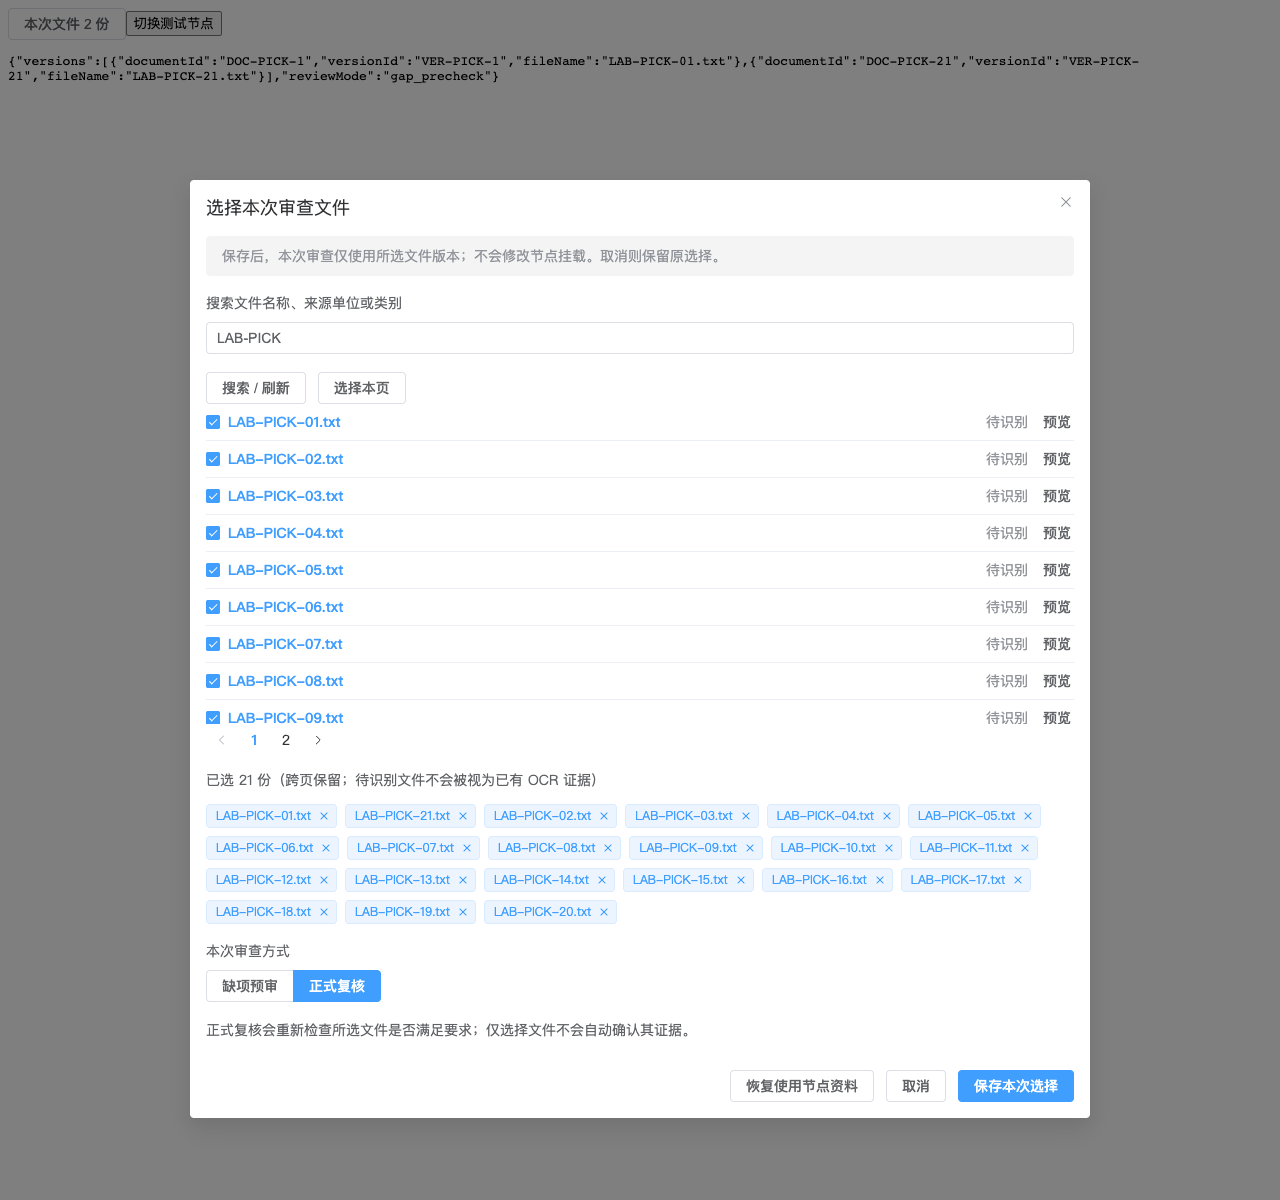
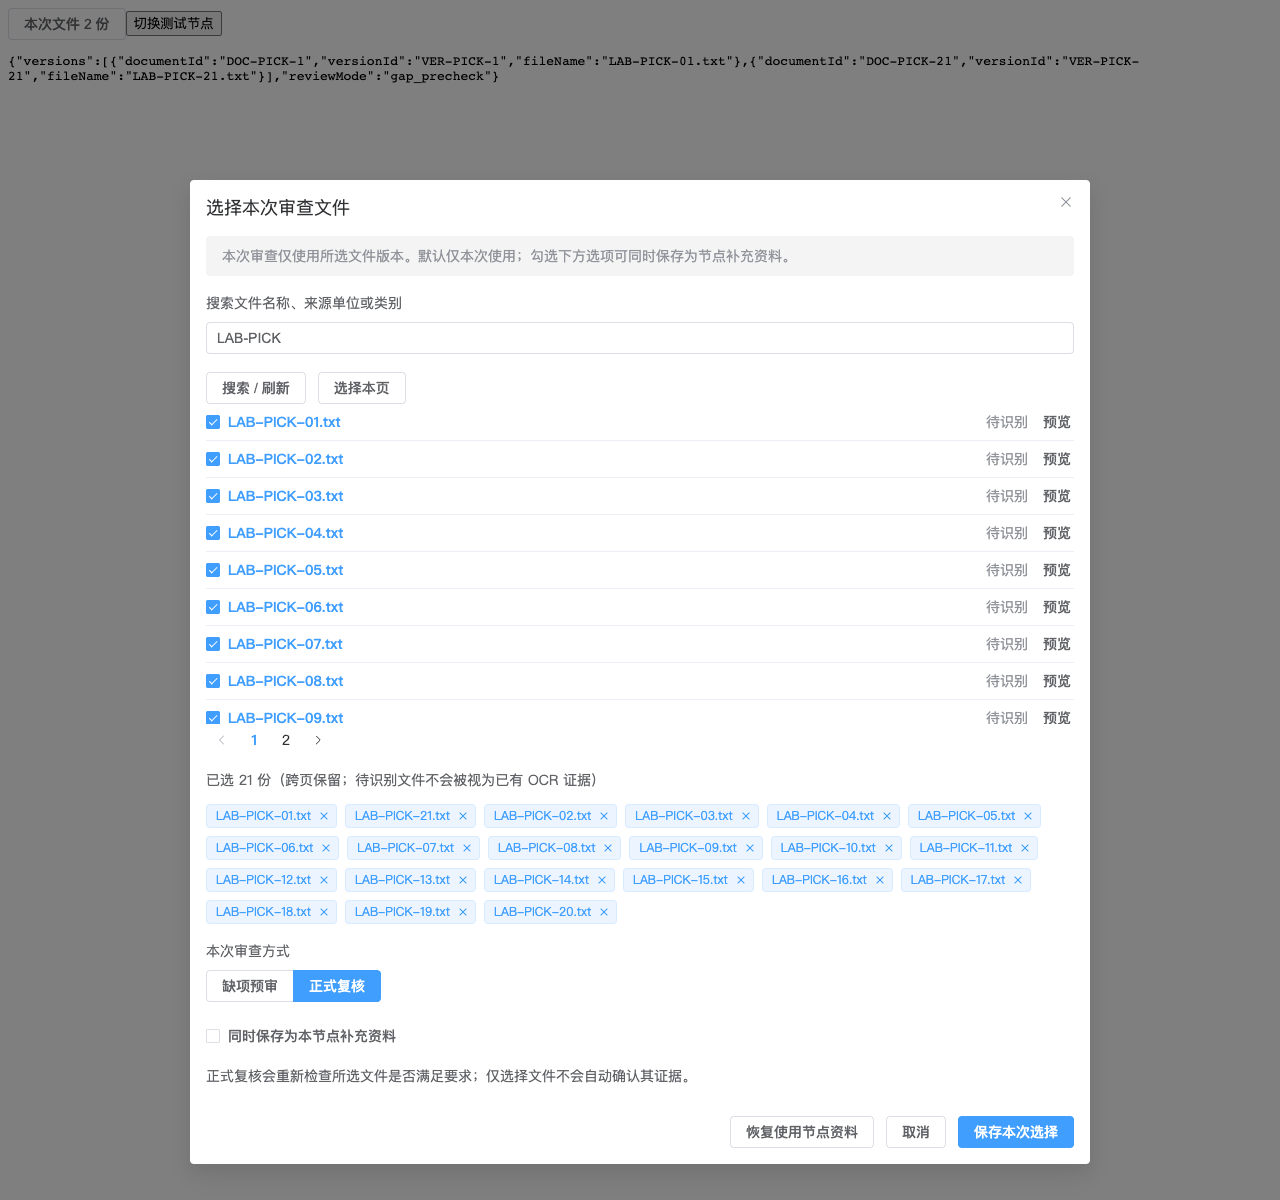
feat(ui): save selected review documents as supplemental node bindings

Changed region(s): [[0.125, 0.8325, 0.875, 0.9867], [0.1875, 0.185, 0.5938, 0.2158]]

diff --git a/frontend/src/views/AIReviewB/ReviewDocumentPicker.vue b/frontend/src/views/AIReviewB/ReviewDocumentPicker.vue
@@ -14,7 +14,7 @@ import {
   ElRadioGroup,
   ElTag
 } from 'element-plus'
-import { getDocumentDetailApi } from '@/api/aicheck'
+import { bindInspectionDocumentsApi, getDocumentDetailApi } from '@/api/aicheck'
 import {
   listReviewDocuments,
   type ReviewDocument,
@@ -24,13 +24,17 @@ import {
 const props = defineProps<{
   projectId: string
   nodeId: number
+  projectEtag?: string
   disabled?: boolean
   selection: ReviewDocumentSelection | null
 }>()
-const emit = defineEmits<{ change: [selection: ReviewDocumentSelection | null] }>()
+const emit = defineEmits<{ change: [selection: ReviewDocumentSelection | null]; bound: [] }>()
 const enabled = import.meta.env.VITE_AICHECK_WORKSTATIONS_ENABLED === 'true'
 const visible = ref(false)
 const loading = ref(false)
+const saving = ref(false)
+const persistBindings = ref(false)
+const bindingAttempts = new Map<string, string>()
 const error = ref('')
 const keyword = ref('')
 const page = ref(1)
@@ -67,6 +71,8 @@ const load = async () => {
   }
 }
 const open = () => {
+  if (saving.value) return
+  persistBindings.value = false
   chosen.value = props.selection?.versions.map((item) => ({ ...item })) || []
   mode.value = props.selection?.reviewMode || 'gap_precheck'
   keyword.value = ''
@@ -75,6 +81,7 @@ const open = () => {
   void load()
 }
 const toggle = (item: ReviewDocument, checked: boolean) => {
+  if (saving.value) return
   if (checked && selectable(item) && !chosenIds.value.has(item.currentVersionId)) {
     if (chosen.value.length >= 500) {
       error.value = '本次最多选择 500 份文件。'
@@ -92,12 +99,47 @@ const search = () => {
   page.value = 1
   void load()
 }
-const save = () => {
-  if (!chosen.value.length || props.disabled) return
-  emit('change', { versions: chosen.value.map((item) => ({ ...item })), reviewMode: mode.value })
+const save = async () => {
+  if (!chosen.value.length || props.disabled || saving.value) return
+  const context = generation
+  const projectId = props.projectId
+  const nodeId = props.nodeId
+  const selection = { versions: chosen.value.map((item) => ({ ...item })), reviewMode: mode.value }
+  if (persistBindings.value) {
+    const bindings = selection.versions
+      .map((item) => ({
+        documentId: item.documentId,
+        documentVersionId: item.versionId,
+        usage: '监检资料' as const
+      }))
+      .sort((a, b) => a.documentVersionId.localeCompare(b.documentVersionId))
+    const fingerprint = JSON.stringify({ projectId, nodeId, bindings })
+    const idempotencyKey = bindingAttempts.get(fingerprint) || `review-files-${crypto.randomUUID()}`
+    bindingAttempts.set(fingerprint, idempotencyKey)
+    saving.value = true
+    error.value = ''
+    try {
+      await bindInspectionDocumentsApi(projectId, nodeId, bindings, {
+        etag: props.projectEtag,
+        idempotencyKey
+      })
+      if (context !== generation) return
+      emit('bound')
+    } catch {
+      if (context === generation)
+        error.value =
+          '节点挂载未确认成功，已选文件仍保留。可重试；若工程已更新，请刷新工作台后再保存。'
+      return
+    } finally {
+      saving.value = false
+    }
+  }
+  if (context !== generation) return
+  emit('change', selection)
   visible.value = false
 }
 const useNodeDocuments = () => {
+  if (saving.value || props.disabled) return
   emit('change', null)
   visible.value = false
 }
@@ -145,7 +187,7 @@ watch(visible, (value) => {
 </script>
 
 <template>
-  <ElButton v-if="enabled" :disabled="disabled || !projectId || !nodeId" @click="open">
+  <ElButton v-if="enabled" :disabled="saving || disabled || !projectId || !nodeId" @click="open">
     {{ selection ? `本次文件 ${selection.versions.length} 份` : '选择本次文件' }}
   </ElButton>
   <ElDialog
@@ -153,11 +195,13 @@ watch(visible, (value) => {
     title="选择本次审查文件"
     width="min(900px, 94vw)"
     :close-on-click-modal="false"
+    :close-on-press-escape="!saving"
+    :show-close="!saving"
   >
     <ElAlert
       type="info"
       :closable="false"
-      title="保存后，本次审查仅使用所选文件版本；不会修改节点挂载。取消则保留原选择。"
+      title="本次审查仅使用所选文件版本。默认仅本次使用；勾选下方选项可同时保存为节点补充资料。"
     />
     <ElAlert v-if="error" type="error" :closable="false" :title="error" />
     <ElForm label-position="top" class="document-picker-search" @submit.prevent="search">
@@ -178,7 +222,7 @@ watch(visible, (value) => {
       >
         <ElCheckbox
           :model-value="chosenIds.has(item.currentVersionId)"
-          :disabled="!selectable(item)"
+          :disabled="saving || !selectable(item)"
           @change="(value) => toggle(item, Boolean(value))"
         >
           {{ item.fileName }}
@@ -187,7 +231,9 @@ watch(visible, (value) => {
           >{{ item.currentOcrStatus || '待识别'
           }}{{ item.bodyUploaded === false ? ' · 文件未上传完整' : '' }}</span
         >
-        <ElButton link :disabled="!selectable(item)" @click="showPreview(item)">预览</ElButton>
+        <ElButton link :disabled="saving || !selectable(item)" @click="showPreview(item)"
+          >预览</ElButton
+        >
       </div>
     </div>
     <ElPagination
@@ -202,25 +248,33 @@ watch(visible, (value) => {
       <ElTag
         v-for="item in chosen"
         :key="item.versionId"
-        closable
+        :closable="!saving"
         @close="chosen = chosen.filter((row) => row.versionId !== item.versionId)"
         >{{ item.fileName }}</ElTag
       >
     </div>
     <ElForm label-position="top">
       <ElFormItem label="本次审查方式">
-        <ElRadioGroup v-model="mode">
+        <ElRadioGroup v-model="mode" :disabled="saving">
           <ElRadioButton value="gap_precheck">缺项预审</ElRadioButton>
           <ElRadioButton value="formal">正式复核</ElRadioButton>
         </ElRadioGroup>
       </ElFormItem>
     </ElForm>
+    <ElCheckbox v-model="persistBindings" :disabled="saving"> 同时保存为本节点补充资料 </ElCheckbox>
+    <p v-if="persistBindings"
+      >按所选版本新增挂载，不替换原挂载或自动匹配必传要求；未提交的版本仍需提交。旧版本不会自动成为正式审查证据。</p
+    >
     <p>正式复核会重新检查所选文件是否满足要求；仅选择文件不会自动确认其证据。</p>
     <template #footer>
-      <ElButton :disabled="disabled" @click="useNodeDocuments">恢复使用节点资料</ElButton>
-      <ElButton @click="visible = false">取消</ElButton>
-      <ElButton type="primary" :disabled="!chosen.length || disabled" @click="save"
-        >保存本次选择</ElButton
+      <ElButton :disabled="disabled || saving" @click="useNodeDocuments">恢复使用节点资料</ElButton>
+      <ElButton :disabled="saving" @click="visible = false">取消</ElButton>
+      <ElButton
+        type="primary"
+        :loading="saving"
+        :disabled="!chosen.length || disabled || saving"
+        @click="save"
+        >{{ persistBindings ? '保存选择并挂载' : '保存本次选择' }}</ElButton
       >
     </template>
   </ElDialog>

diff --git a/frontend/src/views/AIReviewB/ConversationalReviewWorkbenchB.vue b/frontend/src/views/AIReviewB/ConversationalReviewWorkbenchB.vue
@@ -1789,8 +1789,10 @@ onBeforeUnmount(() => {
             :project-id="activeProjectId"
             :node-id="activeNodeId"
             :selection="reviewDocumentSelection"
+            :project-etag="workspace?.project.etag"
             :disabled="actionLoading || workspace?.permissions.canManageEvidence !== true"
             @change="reviewDocumentSelection = $event"
+            @bound="refreshLiveState"
           />
           <div v-if="!props.embedded" class="run-meta">
             <ProjectRuleEditor

diff --git a/docs/优化计划-焊接节点.md b/docs/优化计划-焊接节点.md
@@ -902,3 +902,13 @@ W1 之外已顺手完成：P9 R2 的 opinionSource 字段；F1 的 AI_FEEDBACK_R
 - 舊版掛載仍不自動建立目前版本的正式證據連結；保存補充文件不等於滿足必傳要求。資料池提交狀態仍沿用既有資料級模型，本批未新增逐版本提交歷史。
 - 人工掛載／組織權限／巨石回歸 147 passed；既有掛載及 R69 API 回歸 8 passed；Ruff 289 / 289、diff check 通過。含舊／新版與已／未提交交叉案例、版本號及不產生錯版證據檢查；未重跑完整後端。
 - 這是 W2 永久掛載介面的後端前置修復；保存介面、重複掛載處理、頁碼及歷史版本選取仍待完成。無生產部署或歷史資料改寫。
+
+
+### 2026-09-09 文件選取保存補充掛載介面
+
+- Lab 文件選取預設仍僅本次使用；明確勾選「同時保存為本節點補充資料」才呼叫既有監檢掛載 API，傳所選版本、工程 etag 與冪等編號。沿用監檢資料 usage，不自動指定 requirementId、替換原掛載或提交未提交版本。
+- 保存成功才更新本次選取並要求工作台刷新；失敗保留選取與提示。保存中停用取消、關閉及選取修改；主畫面切換工程／節點後忽略舊保存回應，不把選取帶入新節點。已送出的原節點寫入不因切換而撤銷。
+- 同一元件生命週期內，相同工程／節點／版本集合沿用操作編號；真實 API 模擬保存後遺失回應，再重試只新增一筆掛載。尚未解決重新載入頁面後另一次操作與既有掛載的業務去重；嚴格 If-Match 衝突仍須刷新，不盲目覆寫。
+- 本地 Chrome＋真實 API 驗證明確勾選、固定版本、補充要求、錯誤保留、回應遺失重試、重新開啟恢復預設及保存中切換節點；原文件選取瀏覽器回歸通過。截圖 document-binding-retry.png 已檢視。全量 vue-tsc 與修改檔 ESLint／Stylelint 通過。
+- 此為測試帳號傳輸、記憶體 API 的元件驗收，未啟用嚴格 If-Match；完整登入工作台刷新、頁碼、歷史版本選取及跨頁面去重仍待驗收／開發。無生產部署。
+- 本批前端單元測試 84 個檔案通過、0 失敗，diff check 通過；獨立 API／Vite 測試服務已停止。

diff --git a/docs/lab/README.md b/docs/lab/README.md
@@ -357,3 +357,13 @@ cd backend
 - 舊版掛載仍不自動建立目前版本的正式證據連結；保存補充文件不等於滿足必傳要求。資料池提交狀態仍沿用既有資料級模型，本批未新增逐版本提交歷史。
 - 人工掛載／組織權限／巨石回歸 147 passed；既有掛載及 R69 API 回歸 8 passed；Ruff 289 / 289、diff check 通過。含舊／新版與已／未提交交叉案例、版本號及不產生錯版證據檢查；未重跑完整後端。
 - 這是 W2 永久掛載介面的後端前置修復；保存介面、重複掛載處理、頁碼及歷史版本選取仍待完成。無生產部署或歷史資料改寫。
+
+
+### 2026-09-09 文件選取保存補充掛載介面
+
+- Lab 文件選取預設仍僅本次使用；明確勾選「同時保存為本節點補充資料」才呼叫既有監檢掛載 API，傳所選版本、工程 etag 與冪等編號。沿用監檢資料 usage，不自動指定 requirementId、替換原掛載或提交未提交版本。
+- 保存成功才更新本次選取並要求工作台刷新；失敗保留選取與提示。保存中停用取消、關閉及選取修改；主畫面切換工程／節點後忽略舊保存回應，不把選取帶入新節點。已送出的原節點寫入不因切換而撤銷。
+- 同一元件生命週期內，相同工程／節點／版本集合沿用操作編號；真實 API 模擬保存後遺失回應，再重試只新增一筆掛載。尚未解決重新載入頁面後另一次操作與既有掛載的業務去重；嚴格 If-Match 衝突仍須刷新，不盲目覆寫。
+- 本地 Chrome＋真實 API 驗證明確勾選、固定版本、補充要求、錯誤保留、回應遺失重試、重新開啟恢復預設及保存中切換節點；原文件選取瀏覽器回歸通過。截圖 document-binding-retry.png 已檢視。全量 vue-tsc 與修改檔 ESLint／Stylelint 通過。
+- 此為測試帳號傳輸、記憶體 API 的元件驗收，未啟用嚴格 If-Match；完整登入工作台刷新、頁碼、歷史版本選取及跨頁面去重仍待驗收／開發。無生產部署。
+- 本批前端單元測試 84 個檔案通過、0 失敗，diff check 通過；獨立 API／Vite 測試服務已停止。

diff --git a/frontend/e2e/lab-rules/README.md b/frontend/e2e/lab-rules/README.md
@@ -36,3 +36,5 @@ CSS regression probe, not a logged-in workbench acceptance test.
 
 
 文件選取元件驗收：啟動同一組本地 API／Vite 後，在 frontend 執行 `node e2e/lab-rules/check-documents.mjs`。入口 `/e2e/lab-rules/documents.html` 使用真實文件列表／詳情 API；驗證搜尋、跨頁保留、空殼禁止選取、取消、載入失敗保留、批選、模式、節點重設及恢復預設。測試版本的 hash／isCurrent 為記憶體夾具，不代表檔案內容驗收；預覽僅驗證不支援格式提示。
+
+保存掛載驗收：同一組本地服務執行 `node e2e/lab-rules/check-document-bindings.mjs`。檢查固定版本、補充掛載、保存後遺失回應的冪等重試，以及寫入回應途中切換節點。測試橋接關閉嚴格 If-Match，不能取代生產並行編輯驗收。
